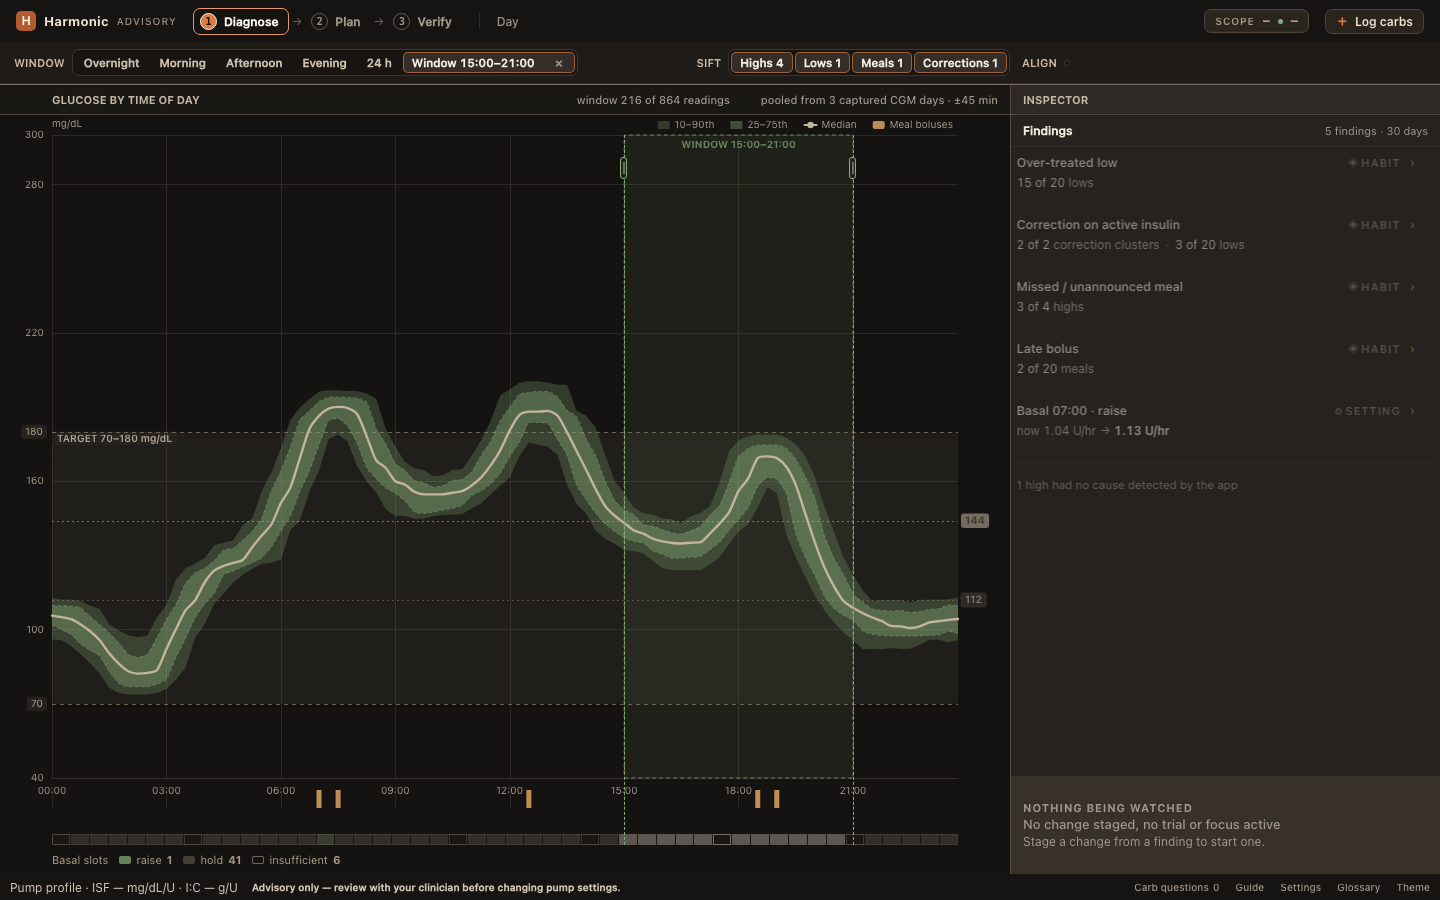
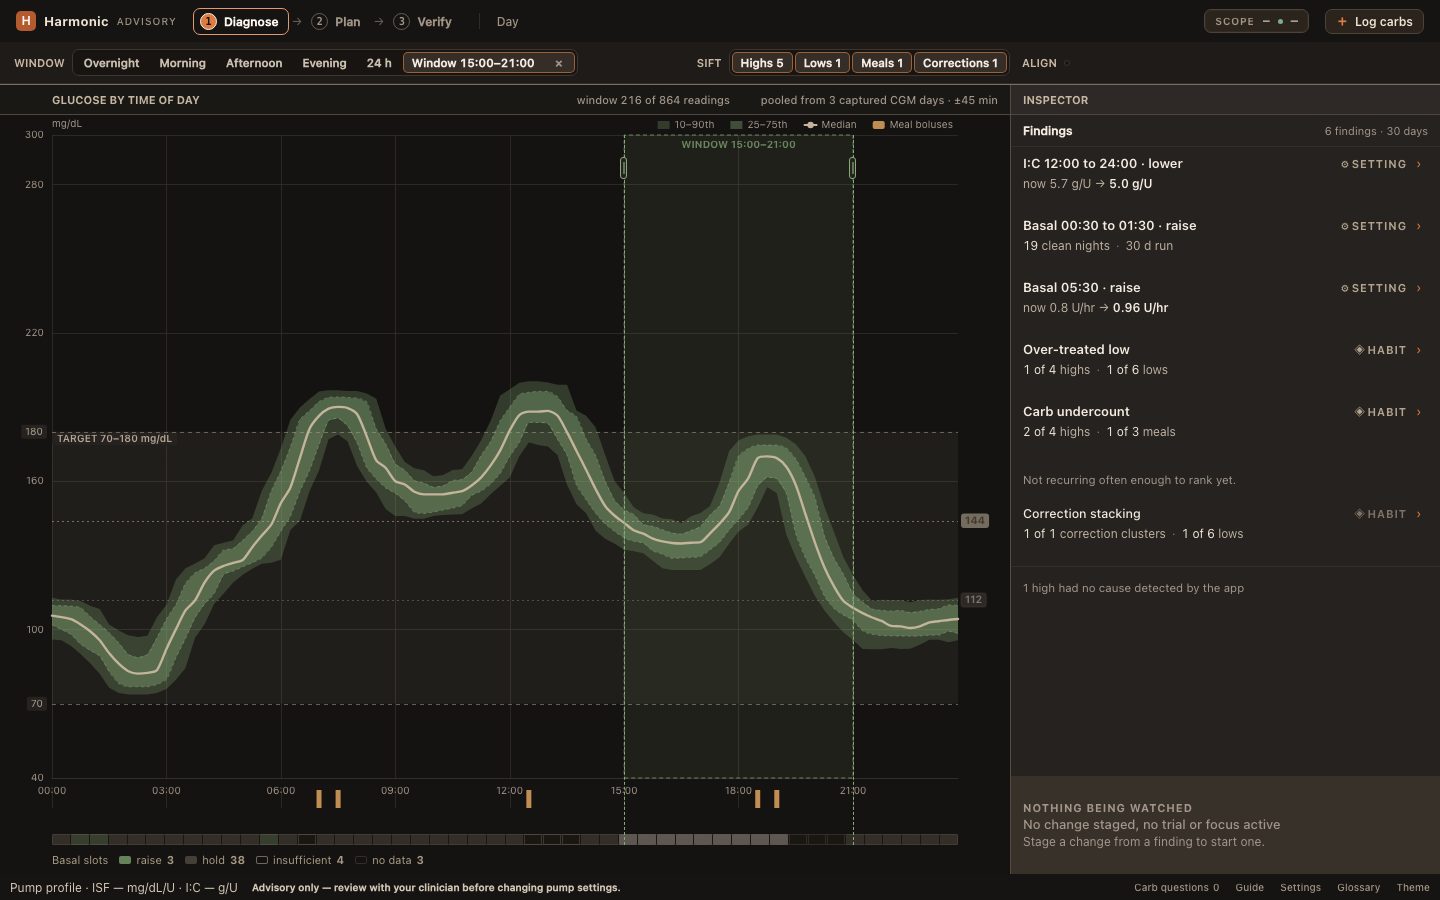
Address Diagnose projection review findings (#81)

diff --git a/frontend/diagnose-workstation.js b/frontend/diagnose-workstation.js
@@ -1276,7 +1276,15 @@ function boot(root, data, callbacks, signal) {
   function ensureFindings() {
     const key = currentFindingsKey();
     if (failedKey !== null && failedKey !== key) failedKey = null;
-    if (key === loadedKey || key === pendingKey || key === failedKey) return;
+    if (key === loadedKey) {
+      // Returning to the projection already in hand abandons any other flight.
+      // Its eventual response must fail the request-key guard below rather than
+      // keep the known-loaded window looking unresolved or replace its rows.
+      pendingKey = null;
+      failedKey = null;
+      return;
+    }
+    if (key === pendingKey || key === failedKey) return;
     pendingKey = key;
     const w = findingsWindow();
     Promise.resolve(callbacks.loadFindings?.(w ? { start_min: w[0], end_min: w[1] } : null))

diff --git a/openspec/changes/filter-unrelated-basal-findings/design.md b/openspec/changes/filter-unrelated-basal-findings/design.md
@@ -60,10 +60,13 @@ used.
 ### Rendered evidence
 
 The paired 1440×900 synthetic evidence is committed under
-`docs/screenshots/issue-81/`. `base-pending-{detail,queue}-{light,dark}.png`
-shows the prior basal recommendation and queue retained under 15:00–21:00.
-The corresponding `revision-pending-*` images show only the count-free range
-state; `revision-failed-*` shows the explicit unavailable state; and
+`docs/screenshots/issue-81/`. The `base-pending-queue-*` and
+`revision-pending-queue-*` images are the strict before/after pair: both use the
+same committed synthetic projection with its `05:30` basal row, and differ only
+in the revision withdrawing that population under 15:00–21:00. The detail
+images are complementary depth coverage, not a one-variable pair: the exact-base
+generated database exposes a `07:00` basal detail while the projection fixture
+exposes `05:30`. `revision-failed-*` shows the explicit unavailable state, and
 `revision-settled-{absence-detail,queue}-*` shows the absent `05:30` detail and
 the server-published `19:30 to 21:00` basal row. Queue and open-setting depths
 were inspected in both themes. No overlap, clipping, new visual language, or

diff --git a/mockups/finding-evidence-routing.behavior.md b/mockups/finding-evidence-routing.behavior.md
@@ -7,7 +7,8 @@
 The app-only replay is
 `frontend/diagnose-workstation-behavior.replay.mjs`: **45 exported stories**
 (29 through 2026-08-19; five added by the excursion-chip sift, #61, at S27-S31;
-eight added by the #62 revision below, at S32-S39; one added by #64, S40), all
+eight added by the #62 revision below, at S32-S39; one added by #64, S40; two
+added by #81, S41-S42), all
 opened through the real no-fetch server and tagged
 `STORY:finding-evidence-routing:<id>`. Static HTML, CSS and JavaScript come from
 that server; deterministic API reads come from
@@ -45,7 +46,7 @@ declaration in `AGENTS.md`):
 
 ```
 PLAYWRIGHT_MODULE=/private/tmp/ciq-playwright-714/node_modules/playwright \
-VENDOR_DIR=/private/tmp/ciq-event-vendor BASE_URL=http://127.0.0.1:8765 \
+VENDOR_DIR=/private/tmp/ciq-vendor-714/out BASE_URL=http://127.0.0.1:28765 \
 TARGET=app PAYLOAD=mockups/diagnose-workstation.synthetic/payload.json \
 node frontend/diagnose-workstation-behavior.replay.mjs
 ```
